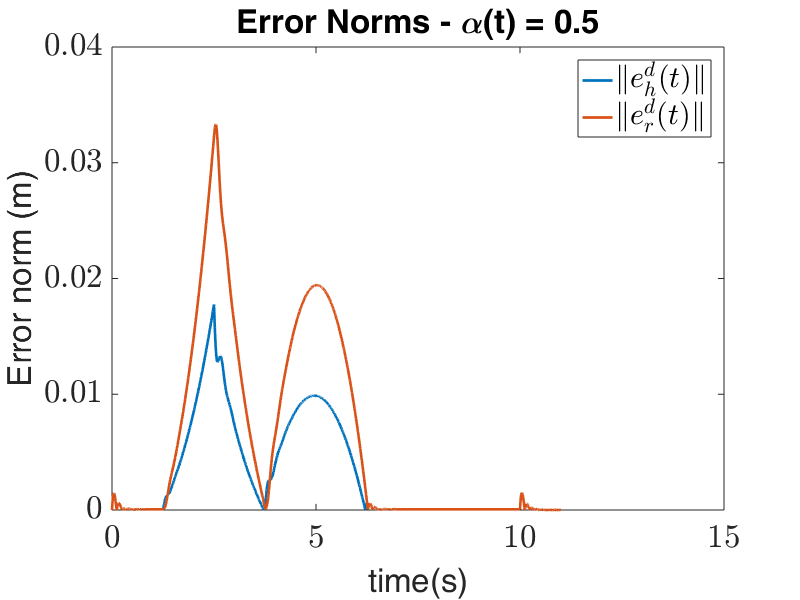
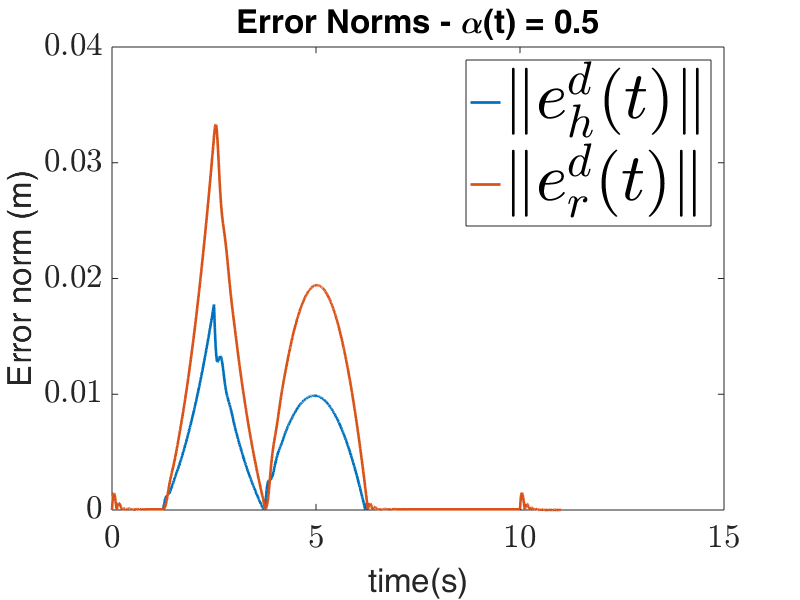
new figures

Changed region(s): [[0.5625, 0.09, 0.875, 0.39]]

diff --git a/ImpedanceControl/main.m b/ImpedanceControl/main.m
@@ -13,8 +13,11 @@ t = 0:Ts:tSim+1;
 %% Robot Parameters
 robot = planar3dof();
 qr = [0 pi/2 pi/2]; % Ready Pose
-%robot.teach(qr); % Show Pose
+robot.teach(qr); % Show Pose
 omega = 2*pi/tSim; % Trajectory angular speed
+set(gca,'FontSize',25)
+set(findall(gcf,'type','text'),'FontSize',25)
+
 
 %% Kinematic Controller
 Kkin = 50 * eye(2);
@@ -45,9 +48,9 @@ Fh = [0;0];
 
 iccMin = 0.05;
 iccMax = 0.50;
-Kicc = 20;
+% Kicc = 20;
 
-alpha = 0;
+alpha = 0.5;
 %% Lyapunov Fn Parameter
 gamma = min(eig(D)) / max(eig(Md)) - 1;
 
@@ -80,7 +83,7 @@ for i=1:length(t)
     
 %     alpha variation for simulation
     
-    icc = Kicc * norm(xR-xH) + iccMin;
+%     icc = Kicc * norm(xR-xH) + iccMin;
     
     sigmoid =(iccMax-iccMin) * 1/(1+exp(-(600*norm(xR-xH)-6))) + iccMin;
     
@@ -90,7 +93,7 @@ for i=1:length(t)
         icc = iccMax;
     end
     
-    alpha = (icc - iccMin) / (iccMax - iccMin);
+%     alpha = (icc - iccMin) / (iccMax - iccMin);
     
     %External disturbances    
     if t(i)> 2 * tSim/8 && t(i) < 3 * tSim/8
@@ -143,8 +146,8 @@ for i=1:length(t)
     
     %Calculating stability conditions
     
-    f1 = (Kd(1) - KdOld(1)) / Ts ;
-    f2 = 2*gamma *Kd(1);    
+    f1 = (Kd(4) - KdOld(4)) / Ts ;
+    f2 = 2*gamma *Kd(4);    
     KdOld = Kd;
     
     Xr(:,i) = xR;
@@ -178,7 +181,7 @@ hold on;
 plot(Xe(1,:),Xe(2,:),'LineWidth',2);
 hold on;
 % plot(Xref(1,:),Xref(2,:));
-legend('$x_r^d(t)$','$x_h^d(t)$','$x_e$');
+lgd = legend('$x_r^d(t)$','$x_h^d(t)$','$x_e$');
 % legend('$x_r^d(t)$','$x_h^d(t)$');
 title('Task Trajectories')
 ylabel('y_{b}(m)');
@@ -186,6 +189,7 @@ xlabel('x_{b}(m)');
 axis([-0.20 0.15 0.25 0.55])
 set(gca,'FontSize',25)
 set(findall(gcf,'type','text'),'FontSize',25)
+% lgd.FontSize = 50;
 % 
 figure('pos',[10 10 800 600]);
 plot(t,Eh,'LineWidth',2);
@@ -193,56 +197,62 @@ hold on
 plot(t,Er,'LineWidth',2);
 % hold on;
 % plot(t,Ekin,'LineWidth',2);
-legend('$\Vert e_h^d(t)\Vert$','$\Vert e_r^d(t)\Vert$');
+lgd = legend('$\Vert e_h^d(t)\Vert$','$\Vert e_r^d(t)\Vert$');
 xlabel('time(s)')
 ylabel('Error norm (m)');
-title('Error Norms - Adaptive \alpha(t)')
+title('Error Norms - \alpha(t) = 0.5')
 set(gca,'FontSize',25)
 set(findall(gcf,'type','text'),'FontSize',25)
+% lgd.FontSize = 50;
 % 
 figure('pos',[10 10 800 600]);
 plot(t,Q,'LineWidth',2)
 xlabel('time(s)');
 ylabel('rad');
-title('Joint Angles - Adaptive \alpha(t)')
-legend('$q_1$','$q_2$','$q_3$')
+title('Joint Angles - \alpha(t) = 0.5')
+lgd = legend('$q_1$','$q_2$','$q_3$');
 set(gca,'FontSize',25)
 set(findall(gcf,'type','text'),'FontSize',25)
+% lgd.FontSize = 50;
 % 
 figure('pos',[10 10 800 600]);
 plot(t,QDot,'LineWidth',2)
 xlabel('time(s)');
 ylabel('rad/s');
-legend('$\dot{q}_1$','$\dot{q}_2$','$\dot{q}_3$')
+lgd = legend('$\dot{q}_1$','$\dot{q}_2$','$\dot{q}_3$');
 set(gca,'FontSize',25)
 set(findall(gcf,'type','text'),'FontSize',25)
-title('Joint Velocities - \alpha(t) = 1.0')
+title('Joint Velocities - \alpha(t) = 0.5 ')
+% lgd.FontSize = 50;
 % 
 figure('pos',[10 10 800 600]);
 plot(t,Alpha,t,ICC,'LineWidth',2);
 xlabel('time(s)');
 ylabel('');
-legend('$\alpha(t)$', 'icc(t)');
+lgd = legend('$\alpha(t)$', 'icc(t)');
 title('\alpha(t) and icc(t)')
 set(gca,'FontSize',25)
 set(findall(gcf,'type','text'),'FontSize',25)
+% lgd.FontSize = 50;
 % 
 figure('pos',[10 10 800 600]);
 plot(t,V,'LineWidth',2);
 xlabel('time(s)');
 ylabel('J');
 title('Lyapunov Function V_2(t)')
-legend('$V_2(t)$')
+lgd = legend('$V_2(t)$');
 set(gca,'FontSize',25)
 set(findall(gcf,'type','text'),'FontSize',25)
+% lgd.FontSize = 50;
 % 
 figure('pos',[10 10 800 600]);
 plot(t,F1,t,F2,'LineWidth',2);
 xlabel('time(s)');
 ylabel('N/m.s');
-legend('$\dot{k}_x$', '$2 \gamma k_x$');
+lgd = legend('$\dot{k}_y$', '$2 \gamma k_y$');
 title('Stability Condition')
 set(gca,'FontSize',25)
 set(findall(gcf,'type','text'),'FontSize',25)
 axis([0 12 -10000 40000])
+% lgd.FontSize = 50;
 % 

diff --git a/ImpedanceControl/planar3dof.m b/ImpedanceControl/planar3dof.m
@@ -5,6 +5,6 @@ L(1) = Link([ 0 0 0.5	0	0], 'standard');
 L(2) = Link([ 0 0 0.5	0	0], 'standard');
 L(3) = Link([ 0 0 0.5	0	0], 'standard');
 
-planar3dof = SerialLink(L, 'name', 'Planar RRR');
+planar3dof = SerialLink(L, 'name', 'Planar 3R');
 
 end
